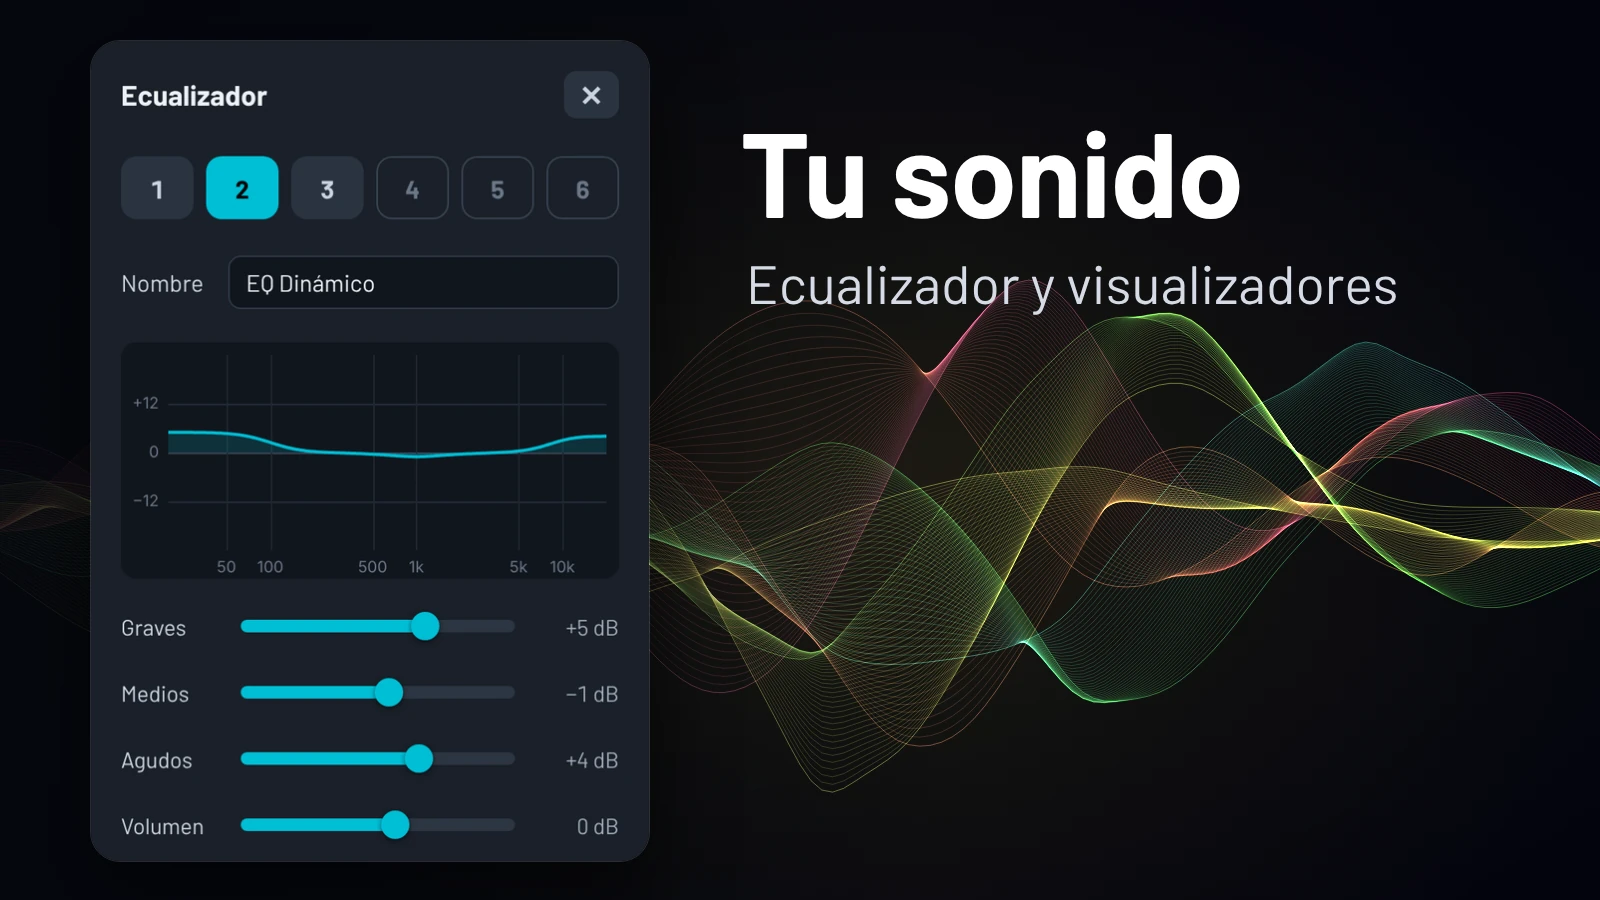
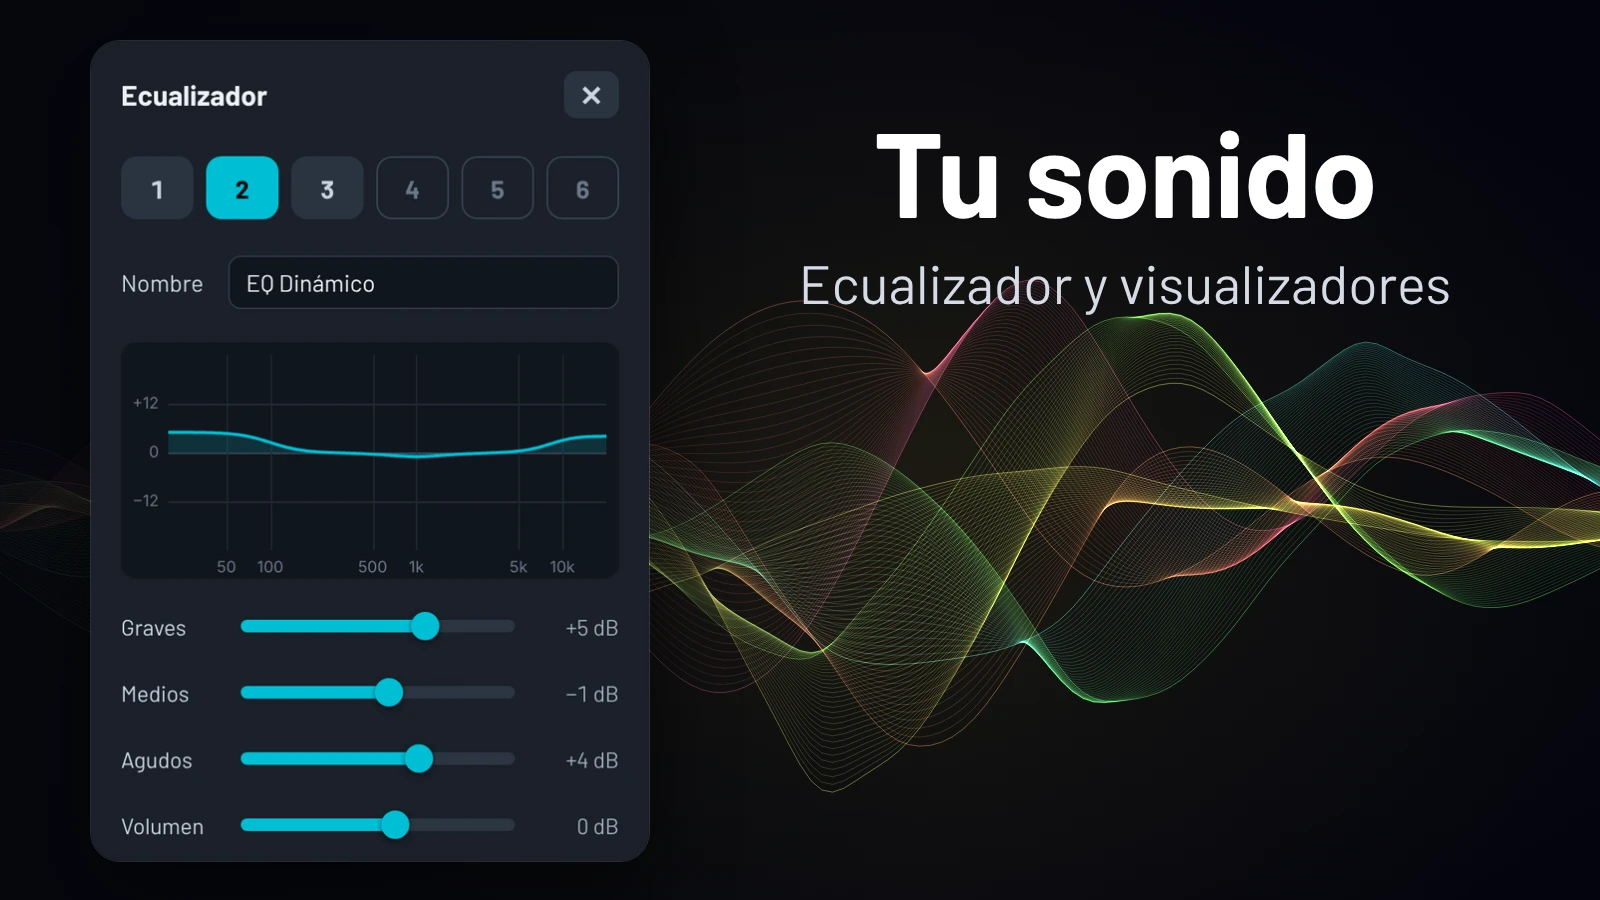
Capturas de sonido e instalar retocadas; caché 320-2
- Sonido: título y subtítulo centrados a la derecha
- Instalar: título sobre la rejilla y presintonías en 3 columnas

Claude-Session: https://claude.ai/code/session_01XLSZwi69pX65SZXdG5ub3S

Changed region(s): [[0.4688, 0.1244, 0.875, 0.2489], [0.4688, 0.28, 0.9062, 0.3422]]

diff --git a/sw.js b/sw.js
@@ -4,7 +4,7 @@
 // Excepción: stations.json (los ajustes por defecto, con las URL de los streams, que cambian con el tiempo) y los archivos de bbdd/ (la base de datos de emisoras, para la búsqueda) van "red primero", con la caché de respaldo.
 // Los sonidos y la imagen de la notificación (sounds/, img/) NO se gestionan aquí: la propia página los guarda en la caché "rn-sounds", que este archivo respeta.
 // Los streams (otro origen) tampoco pasan por aquí.
-const CACHE = 'rn-shell-320-1';   // versión 320 (la pública, APP_VERSION) y el número de publicación dentro de ella: sin cambiar el nombre, la caché no se renovaría
+const CACHE = 'rn-shell-320-2';   // versión 320 (la pública, APP_VERSION) y el número de publicación dentro de ella: sin cambiar el nombre, la caché no se renovaría
 const NET_WAIT_MS = 3000;   // lo que se espera a la red por stations.json y bbdd/ antes de tirar de la copia guardada
 const SHELL = [
   './', './css/styles.css', './fonts/barlow-latin-400-normal.woff2', './fonts/barlow-latin-500-normal.woff2', './fonts/barlow-latin-600-normal.woff2', './fonts/barlow-latin-700-normal.woff2', './fonts/barlow-condensed-latin-700-normal.woff2', './favicon.ico', './favicon-32.png', './icon.svg', './stations.json', './bbdd/ser.json', './bbdd/los40.json', './bbdd/resto.json',
